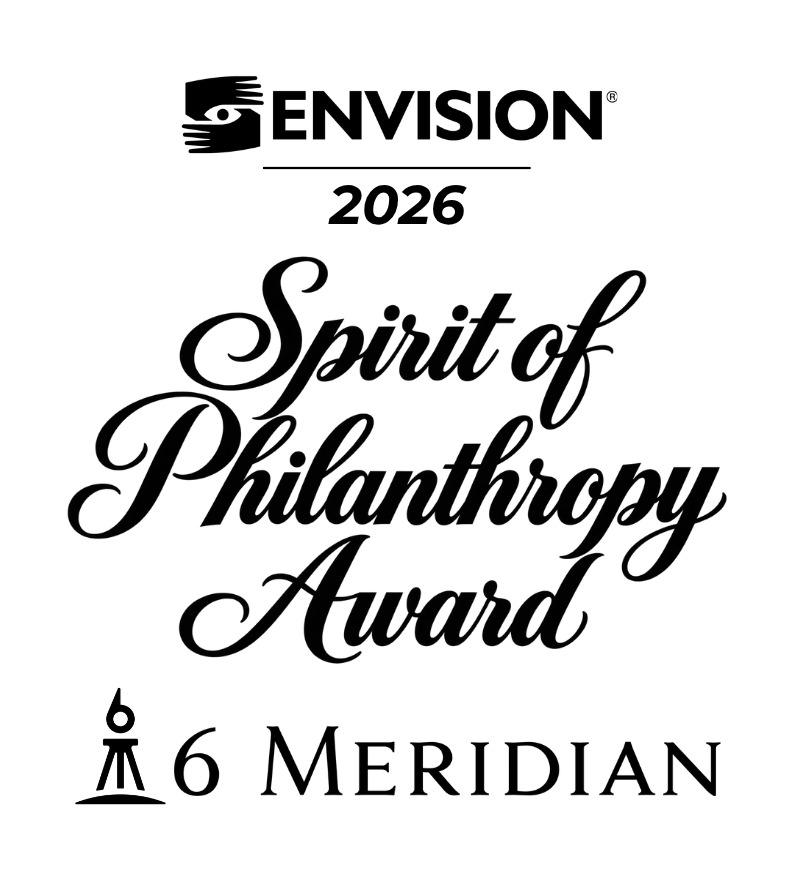
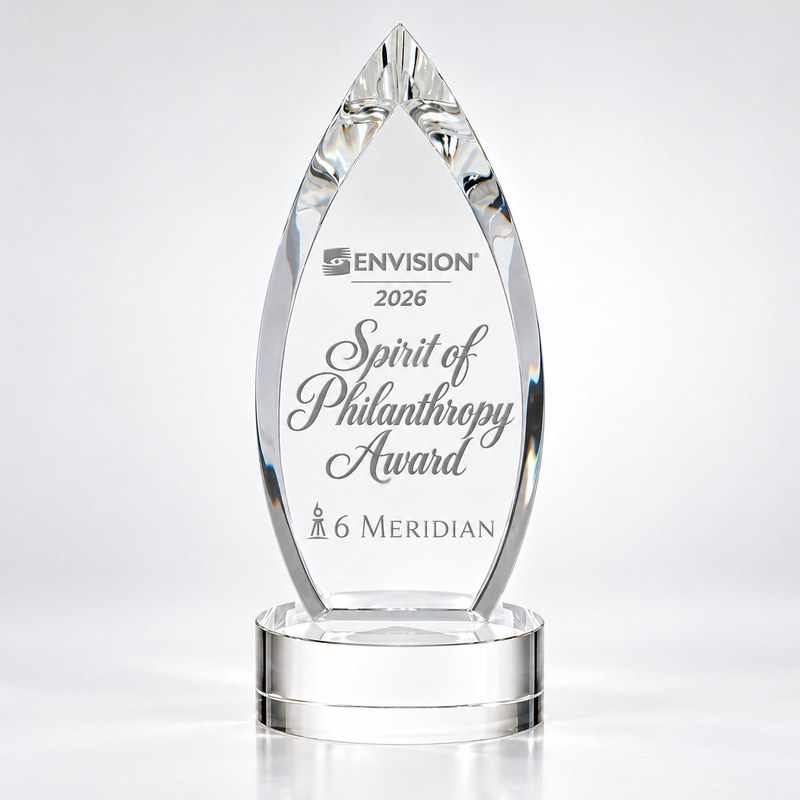
Swap in the new Spirit of Philanthropy Award; contacts Madison & Molly
The new teardrop crystal design replaces the Prism Diamond mockup, so the
4imprint Prism Diamond link is dropped.

Claude-Session: https://claude.ai/code/session_01MghwAfjWKugkfXz9yNynyW

diff --git a/script.js b/script.js
@@ -348,11 +348,12 @@ const sectionConfig = [
           {
             name: "Spirit of Philanthropy Award",
             file: "show/award.jpg",
-            full: "full/show/spirit-of-philanthropy-award-2026.png",
+            full: "full/show/spirit-of-philanthropy-award-2026.jpg",
             status: "delivered",
-            tags: [{ label: "New design uploaded", status: "draft", flash: true }],
-            url: "https://www.4imprint.com/product/154448/Prism-Diamond-Crystal-Award",
-            urlLabel: "Award: Prism Diamond Crystal Award (4imprint)",
+            tags: [
+              { label: "New design uploaded", status: "draft", flash: true },
+              { label: "Contacts: Madison & Molly", status: "approved" },
+            ],
             clickup: "https://app.clickup.com/t/86akgg61d",
           },
         ],
